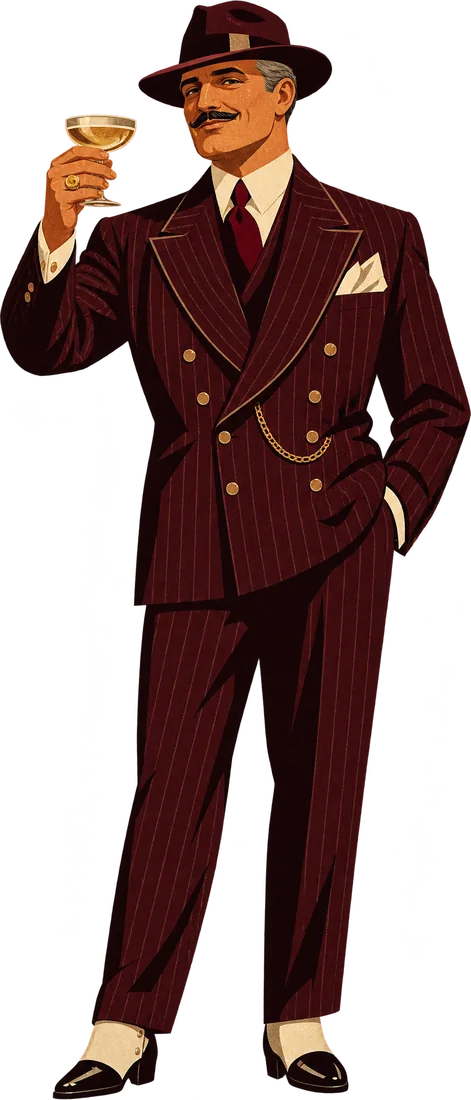
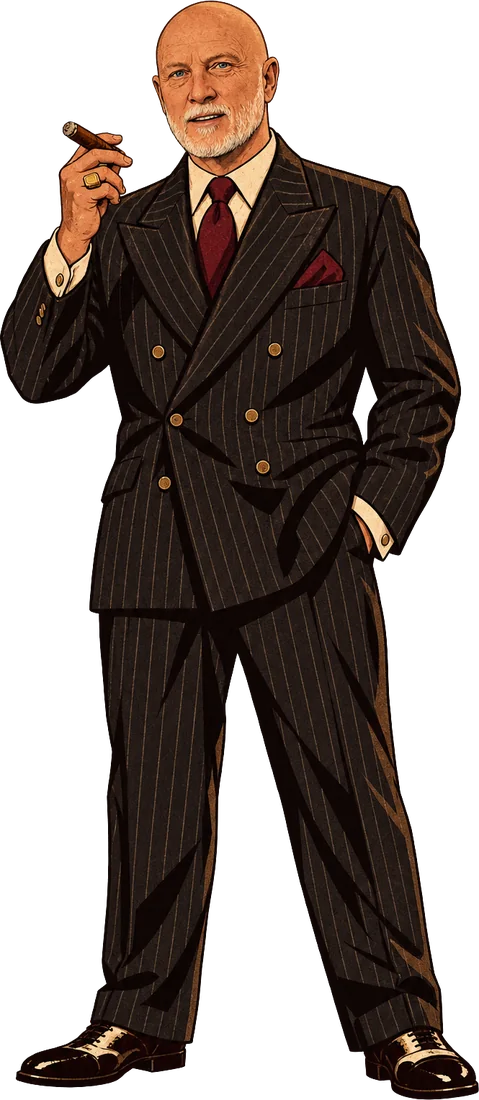
Five new cast members and the new Don, Ray Sanders
Brayden, Holden, Brian, Brianna and Sienna join the cast (drawn from their
photos in the house style); the Don's drawing is now Ray Sanders, and every
line that named Don Carmine Velluto says Don Ray Sanders (the recordings that
say it are re-recorded separately).

Claude-Session: https://claude.ai/code/session_011n5gPsd4ZZgTYeVzG34PYX

diff --git a/convex/narration.ts b/convex/narration.ts
@@ -232,8 +232,8 @@ export const CUES = {
   },
   intro2: {
     when: "Start: the body",
-    classic: "Tonight, the Velvet Room lost its owner. Don Carmine Velluto has been found dead.",
-    adult: "Tonight the Velvet Room lost its owner. Don Carmine Velluto is dead as hell.",
+    classic: "Tonight, the Velvet Room lost its owner. Don Ray Sanders has been found dead.",
+    adult: "Tonight the Velvet Room lost its owner. Don Ray Sanders is dead as hell.",
     wild: ["[suddenly shouting]", "[sobbing dramatically]"],
   },
   intro3: {
@@ -308,8 +308,8 @@ export const CUES = {
   // ---- reveal ----
   reveal1: {
     when: "Reveal: the drumroll",
-    classic: "[long pause] The killer of Don Carmine Velluto is…",
-    adult: "[long pause] The son of a bitch who killed Don Carmine Velluto is…",
+    classic: "[long pause] The killer of Don Ray Sanders is…",
+    adult: "[long pause] The son of a bitch who killed Don Ray Sanders is…",
     wild: ["[trembling with excitement]", ""],
   },
   reveal2: {
@@ -513,8 +513,8 @@ export const ADULT_MORE: Partial<Record<CueKey, string[]>> = {
     "[low, gravelly voice] New York City. October, 1929. The stock market is nervous, the gin is illegal, and the Don is in a very good mood. [long pause] For now.",
   ],
   intro2: [
-    "Tonight the Velvet Room lost its owner. Don Carmine Velluto is dead. He leaves behind a nightclub, eleven unpaid cops and a very confused parrot.",
-    "Don Carmine Velluto, owner of the Velvet Room, beloved by nobody, is dead. The family asks that you don't touch anything. The family is also suspects.",
+    "Tonight the Velvet Room lost its owner. Don Ray Sanders is dead. He leaves behind a nightclub, eleven unpaid cops and a very confused parrot.",
+    "Don Ray Sanders, owner of the Velvet Room, beloved by nobody, is dead. The family asks that you don't touch anything. The family is also suspects.",
   ],
   intro3: [
     "[whispers] One of you did it. [short pause] And frankly, we're all a little impressed.",
@@ -562,8 +562,8 @@ export const ADULT_MORE: Partial<Record<CueKey, string[]>> = {
     "Thirty seconds left. If you haven't locked in, you're either thinking very hard or hiding something. Both look bad.",
   ],
   reveal1: [
-    "[long pause] The person who murdered Don Carmine Velluto, in his own club, in front of his own gin, is…",
-    "[long pause] The police have been called. They're on their way. They've been paid. [short pause] The killer of Don Carmine Velluto is…",
+    "[long pause] The person who murdered Don Ray Sanders, in his own club, in front of his own gin, is…",
+    "[long pause] The police have been called. They're on their way. They've been paid. [short pause] The killer of Don Ray Sanders is…",
   ],
   reveal2: [
     "…standing right here, in a very nice outfit.",
@@ -653,7 +653,7 @@ export const NOISY: Record<Tone, Partial<Record<CueKey, string>>> = {
     round2: "Fresh evidence has come in. [burps] Pardon me.",
     oneMinute: "One minute left in this round. [sneezes] Excuse me. One minute.",
     twist: "[building] And now, the t- t- twist.",
-    reveal1: "[long pause] The killer of Don Carmine Velluto is… [hiccups] is…",
+    reveal1: "[long pause] The killer of Don Ray Sanders is… [hiccups] is…",
     verdictDetectives: "The detectives got their killer. [short pause] C- c- confess, you rat.",
     votePrompt: "Now vote on your phones: Best Dressed and [hiccups] Best Liar.",
     voteJail: "Time to vote. [clears throat] Who goes to jail? Vote on your phone. You can pick nobody.",
@@ -681,7 +681,7 @@ export const NOISY: Record<Tone, Partial<Record<CueKey, string>>> = {
     oneMinute: "Sixty seconds. [sneezes] Hurry it up, you overdressed herd of snails.",
     twist: "[building] Hold on to something. [farts] [short pause] Not that.",
     accuseLastCall: "Thirty seconds left. Lock it in. [hiccups] Lock it in.",
-    reveal1: "[long pause] The person who murdered Don Carmine Velluto, in his own club, in front of his own gin, is… [hiccups] is…",
+    reveal1: "[long pause] The person who murdered Don Ray Sanders, in his own club, in front of his own gin, is… [hiccups] is…",
     verdictDetectives: "Justice, for once in New York. [short pause] The killer is c- c- caught, and is welcome to blame the gin.",
     votePrompt: "Now vote on your phones: Best Dressed and Best Liar. Vote for yourself if you must. [snorts] Everyone will know.",
     awards: "And now, the awards. [clears throat] [clears throat again] The trophies are real. The talent is debatable.",

diff --git a/convex/figures.ts b/convex/figures.ts
@@ -3,7 +3,7 @@
 // guest taps their own face and goes by their own name and a 1920s nickname ("Josh “Two-Tone” Lee") on screen and
 // in the narration. Each drawing belongs to one guest per game; whoever picks a character plays. Test guests are the
 // cast too. The drawings live in public/art/<key>.webp (faces in public/art/faces). The Don and the masked killer are
-// the story's own and never handed out. (The old 16 drawings stay in public/art only so games from before still show.)
+// the story's own and never handed out (since Oct 16 the Don is Ray Sanders, drawn from his photo: "Don Ray Sanders"). (The old 16 drawings stay in public/art only so games from before still show.)
 //
 // Add someone: art in public/art(/faces) via scripts/process-art.py, a line here, and their face in FACE_X
 // (src/lib/figure.ts). `sayAs` only if the narrator gets the name wrong.
@@ -21,6 +21,11 @@ export const CAST: CastMember[] = [
   { key: "josh", name: "Josh", sex: "m" },
   { key: "sophia", name: "Sophia", sex: "f" },
   { key: "chrissie", name: "Chrissie", sex: "f" },
+  { key: "brayden", name: "Brayden", sex: "m" },
+  { key: "holden", name: "Holden", sex: "m" },
+  { key: "brian", name: "Brian", sex: "m" },
+  { key: "brianna", name: "Brianna", sex: "f" },
+  { key: "sienna", name: "Sienna", sex: "f" },
 ];
 export const CAST_KEYS = CAST.map((l) => l.key);
 export const castMember = (key: string | null | undefined) => (key ? CAST.find((l) => l.key === key) ?? null : null);

diff --git a/src/lib/figure.ts b/src/lib/figure.ts
@@ -9,5 +9,5 @@ export const avatarSrc = (photoUrl?: string | null, figure?: string | null) => p
  * Where each drawing's face sits across its width (0 to 1), for lining the face up with the gap in the
  * jail bars (public/art/jailbars.webp). Measured from the art: the middle of the head in the top 15%.
  */
-export const FACE_X: Record<string, number> = {"bodyguard": 0.455, "chrissie": 0.448, "cigarette": 0.322, "curls": 0.442, "dapper": 0.5, "detective": 0.446, "don": 0.488, "emily": 0.387, "flapper": 0.608, "gambler": 0.403, "heiress": 0.453, "heston": 0.441, "josh": 0.415, "killer": 0.43, "lady": 0.45, "madison": 0.471, "miranda": 0.474, "owner": 0.508, "reily": 0.4, "reporter": 0.364, "sam": 0.422, "singer": 0.326, "sleuth": 0.272, "slick": 0.494, "sophia": 0.46, "sweetheart": 0.406, "trumpet": 0.495};
+export const FACE_X: Record<string, number> = {"bodyguard": 0.455, "brayden": 0.294, "brian": 0.386, "brianna": 0.445, "holden": 0.408, "sienna": 0.323, "chrissie": 0.448, "cigarette": 0.322, "curls": 0.442, "dapper": 0.5, "detective": 0.446, "don": 0.445, "emily": 0.387, "flapper": 0.608, "gambler": 0.403, "heiress": 0.453, "heston": 0.441, "josh": 0.415, "killer": 0.43, "lady": 0.45, "madison": 0.471, "miranda": 0.474, "owner": 0.508, "reily": 0.4, "reporter": 0.364, "sam": 0.422, "singer": 0.326, "sleuth": 0.272, "slick": 0.494, "sophia": 0.46, "sweetheart": 0.406, "trumpet": 0.495};
 export const faceX = (key: string) => FACE_X[key] ?? 0.45;

diff --git a/src/party/PartyPhone.tsx b/src/party/PartyPhone.tsx
@@ -449,7 +449,7 @@ function ShowWait({ data }: { data: Phone }) {
     <div className="screen center murder">
       <span className="eyebrow">Lights down</span>
       <h1 className="title-xl">The Don is dead.</h1>
-      {data.game.bodyRoom && <p className="lede">Don Carmine Velluto has been found in {mid(data.game.bodyRoom)}.</p>}
+      {data.game.bodyRoom && <p className="lede">Don Ray Sanders has been found in {mid(data.game.bodyRoom)}.</p>}
       <div className="sealed">
         <p>Eyes on the TV. Your secret role arrives here after the roll call.</p>
       </div>
@@ -465,7 +465,7 @@ function Murder({ data, onDone }: { data: Phone; onDone: () => void }) {
     <div className="screen center murder no-select">
       <span className="eyebrow">Check your phone</span>
       <h1 className="title-xl">The Don is dead.</h1>
-      <p className="lede">Don Carmine Velluto has been found in {mid(data.game.bodyRoom)}.</p>
+      <p className="lede">Don Ray Sanders has been found in {mid(data.game.bodyRoom)}.</p>
       <div {...props} aria-label="Press and hold to see your role" className={`hold-card${holding ? " showing" : ""}`}>
         {holding ? (
           role === "killer" ? (

diff --git a/src/tv/Tv.tsx b/src/tv/Tv.tsx
@@ -540,7 +540,7 @@ function sceneFor(d: Data, p: Plan, now: number): { scene: Scene } {
     const step = now < t + R.name ? 0 : now < t + R.how ? 1 : accAt !== null && now < accAt ? 2 : now < t + R.verdict ? (accAt !== null ? 3 : 2) : accAt !== null ? 4 : 3;
     const frames = [
       <div className="tv-scene" key="v0">
-        <span className="tv-kick fade">The killer of Don Carmine Velluto is</span>
+        <span className="tv-kick fade">The killer of Don Ray Sanders is</span>
         <h2 className="tv-h2 fade" style={{ fontSize: "9cqw" }}>…</h2>
       </div>,
       <div className="tv-scene" key="v1">
@@ -652,7 +652,7 @@ function showScene(d: Data, p: Plan, now: number): Scene | null {
       </div>,
       <div className="tv-scene dark" key="i1">
         <h2 className="tv-h2 fade blood">The Don is dead.</h2>
-        <p className="tv-sub fade">Don Carmine Velluto · found in {mid(g.bodyRoom)}</p>
+        <p className="tv-sub fade">Don Ray Sanders · found in {mid(g.bodyRoom)}</p>
       </div>,
       <div className="tv-scene dark" key="i2">
         <h2 className="tv-h2 fade">One of you did it.</h2>

diff --git a/tests/engine.test.ts b/tests/engine.test.ts
@@ -262,9 +262,9 @@ describe("the engine", () => {
     input.tone = "adult";
     const cf = buildCase(input, rng);
     const killer = cf.briefings.find((b) => b.role === "killer")!;
-    expect(killer.lines[0]).toMatch(/^You did it\. You whacked Don Carmine Velluto/);
+    expect(killer.lines[0]).toMatch(/^You did it\. You whacked Don Ray Sanders/);
     const classic = buildCase({ ...input, tone: "classic" }, seeded(21));
     expect(classic.bodyRoomKey).toBeTruthy();
-    expect(classic.briefings.find((b) => b.role === "killer")!.lines[0]).toMatch(/You killed Don Carmine Velluto/);
+    expect(classic.briefings.find((b) => b.role === "killer")!.lines[0]).toMatch(/You killed Don Ray Sanders/);
   });
 });

diff --git a/convex/engine/textAdult.ts b/convex/engine/textAdult.ts
@@ -87,7 +87,7 @@ export const ADULT: Script = {
     "Somebody paid you twenty bucks to keep an eye on someone here tonight. You already lost track of them.",
   ],
   killerLines: (f) => [
-    `You did it. You whacked Don Carmine Velluto with the ${f.weapon.toLowerCase()} in ${mid(f.room)}.`,
+    `You did it. You whacked Don Ray Sanders with the ${f.weapon.toLowerCase()} in ${mid(f.room)}.`,
     f.ownWeapon
       ? `The ${f.weapon.toLowerCase()} is the weapon you brought, genius. If anyone figures that out, start lying your ass off.`
       : `The ${f.weapon.toLowerCase()} isn't even your weapon. Lucky break, you sneaky bastard.`,

diff --git a/convex/engine/text.ts b/convex/engine/text.ts
@@ -160,7 +160,7 @@ export const CLASSIC: Script = {
     "You took a payment to keep an eye on someone here tonight.",
   ],
   killerLines: (f) => [
-    `You did it. You killed Don Carmine Velluto with the ${f.weapon.toLowerCase()} in ${mid(f.room)}.`,
+    `You did it. You killed Don Ray Sanders with the ${f.weapon.toLowerCase()} in ${mid(f.room)}.`,
     f.ownWeapon
       ? `The ${f.weapon.toLowerCase()} is the weapon you brought. If anyone works that out, you'll need a good story.`
       : `The ${f.weapon.toLowerCase()} isn't the weapon you brought. That's lucky for you.`,

diff --git a/src/components/ProfileForm.tsx b/src/components/ProfileForm.tsx
@@ -247,7 +247,7 @@ export default function ProfileForm(props: {
           <Deco />
           <h1 className="title-xl">The Velvet Room</h1>
           <p className="lede">
-            Don Carmine Velluto requests your company for a private evening. Before you arrive, the house needs to
+            Don Ray Sanders requests your company for a private evening. Before you arrive, the house needs to
             know who you are.
           </p>
           <div className="actions wide">
